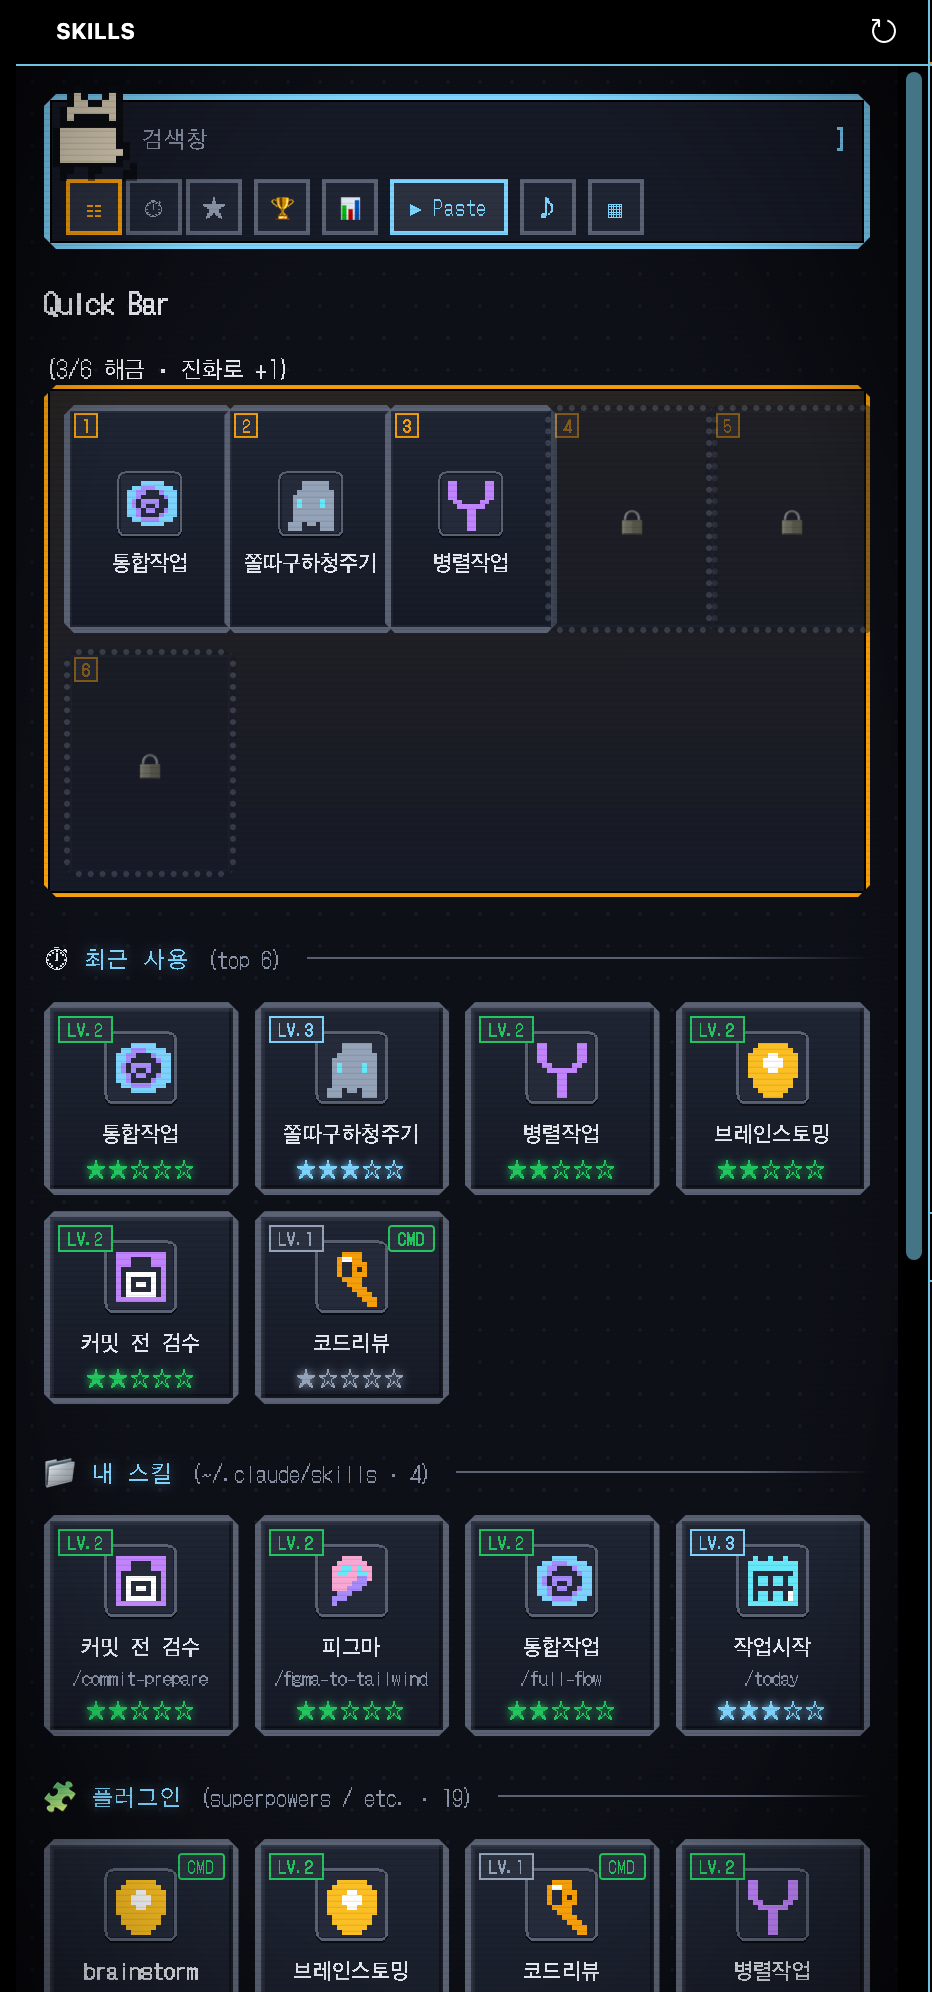
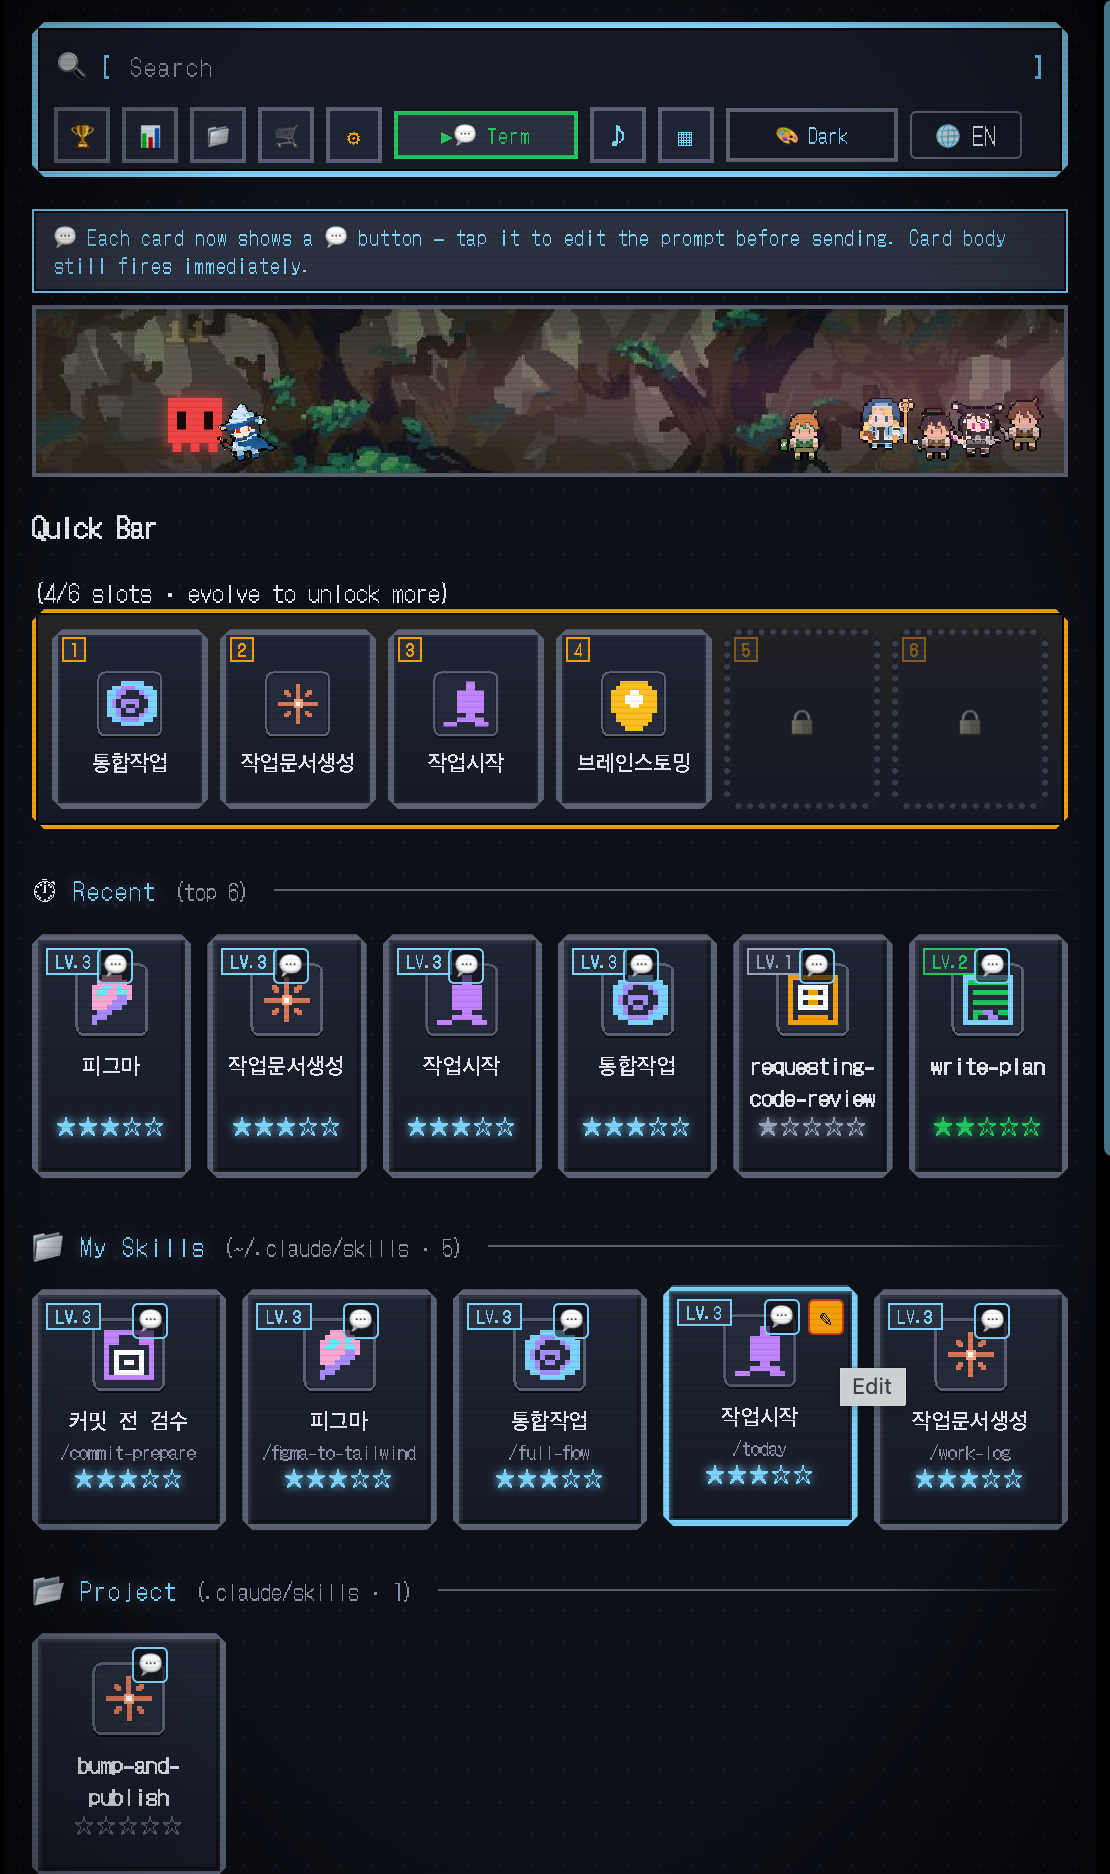
docs: refresh Preview screenshots for v0.43+ visuals · v0.44.1
- panel-main.png: narrow Activity Bar showing buddy yard (forest
  backdrop + monster + class buddies), prompt-template hint banner,
  Quick Bar, recent/project/my-skills sections
- panel-bottom.png: wide Bottom Panel with the per-buddy info modal
  open (Webbie / Wizard / 4 invocations / "★ Your current class")

Same filenames as before so README image links are unchanged. No code
changes.

diff --git a/CHANGELOG.md b/CHANGELOG.md
@@ -2,6 +2,30 @@
 
 All notable changes to this extension are documented here.
 
+## [0.44.1] — 2026-05-07
+
+### Changed — Preview screenshots refreshed for v0.43+ visuals
+
+The two Preview-section PNGs (`panel-main.png` Activity Bar narrow,
+`panel-bottom.png` Bottom Panel wide) had been frozen on v0.20 captures
+from late April — pre-yard, pre-tokens, pre-prompt-modal, pre-locale-
+toggle, single-theme, Korean-only. They didn't match anything users
+were actually installing.
+
+The new captures show:
+
+- **panel-main.png** — narrow Activity Bar with the buddy yard
+  (pixel forest backdrop + monster + class-specific buddies idle-walking),
+  the prompt-template hint banner, Quick Bar, recent / project / my
+  skills sections all visible at once.
+- **panel-bottom.png** — wide Bottom Panel with the **per-buddy info
+  modal opened** (Webbie / Wizard / 4 invocations / triggers on
+  web/frontend/ui/css/react/tailwind/figma/design / "★ Your current class"
+  badge). Doubles as a feature showcase for the v0.43 buddy info modal.
+
+Same filenames, so the README image references didn't change. No code
+diff — listing-freshness patch only.
+
 ## [0.44.0] — 2026-05-07
 
 ### Added — Demo GIFs throughout the README